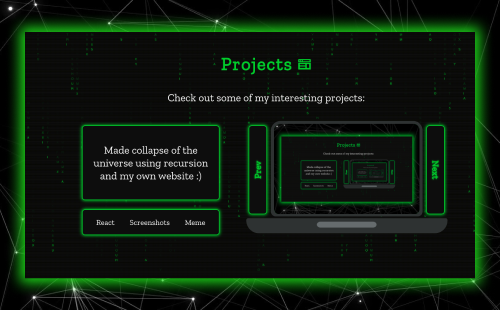
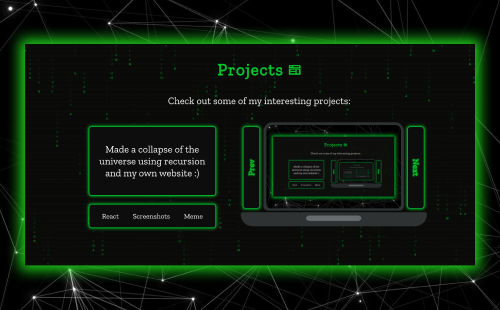
fix navigation, add border to modal links

diff --git a/src/components/projectSlide/ProjectSlide.js b/src/components/projectSlide/ProjectSlide.js
@@ -41,7 +41,7 @@ const ProjectSlide = () => {
             id: 4,
             link: 'https://github.com/JUL1VER/PortfolioWebsite.React',
             imgprop: project4,
-            description: 'Made collapse of the universe using recursion and my own website :)',
+            description: 'Made a collapse of the universe using recursion and my own website :)',
             techno: ['React', 'Screenshots', 'Meme']
         }
     ];
@@ -56,6 +56,8 @@ const ProjectSlide = () => {
                     <Swiper
                         modules={[EffectFlip]}
                         effect='flip'
+                        noSwiping={true}
+                        noSwipingClass='ProjectsBlock_content_textInside'
                         loop={true}
                         onBeforeInit={(swiper) => {
                             swiper.params.navigation.prevEl = navigationPrevRef.current;
@@ -77,6 +79,8 @@ const ProjectSlide = () => {
                     <Swiper
                         modules={[EffectFlip]}
                         effect='flip'
+                        noSwiping={true}
+                        noSwipingClass='ProjectsBlock_contect_tecnhoList'
                         loop={true}
                         onBeforeInit={(swiper) => {
                             swiper.params.navigation.prevEl = navigationPrevRef.current;
@@ -108,6 +112,8 @@ const ProjectSlide = () => {
                     effect='fade'
                     lazy={true}
                     loop={true}
+                    noSwiping={true}
+                    noSwipingClass='ProjectsBlock_conteiner_slidePic'
                     className='ProjectsBlock_Swiper'
                     onBeforeInit={(swiper) => {
                         swiper.params.navigation.prevEl = navigationPrevRef.current;
@@ -120,7 +126,7 @@ const ProjectSlide = () => {
                 >
                     { cards.map(card => (
                         <SwiperSlide key={card.id}>
-                            <a href={card.link} target='_blank' rel="noreferrer">
+                            <a href={card.link} target='_blank' rel="noreferrer" className='ProjectsBlock_conteiner_slidePic'>
                                 <div className='ProjectsBlock_hover'/>
                                 <img src={card.imgprop} alt="Project" className="ProjectsBlock_conteiner_projectPic"/>
                             </a>

diff --git a/src/components/descriptionBlock/DescriptionBlock.js b/src/components/descriptionBlock/DescriptionBlock.js
@@ -42,7 +42,7 @@ const DescriptionBlock = () => {
                     </picture>
                 </div>
                 <div className="DescriptionBlock_contentPart">
-                    <p className='DescriptionBlock_text'>Hello, my name is <a href="https://linkedin.com/in/vladJ1" target='_blank' rel='noreferrer' className='DescriptionBlock_link'>Vlad</a> and I like to create cool things! Interesting fact about me: just like I'm obsessed with programming, I love to wrire <a href="https://stihi.ru/avtor/jul1ver" target='_blank' rel='noreferrer' className='DescriptionBlock_link'>poems</a>, that's why I can say programming is a poetry too.</p>
+                    <p className='DescriptionBlock_text'>Hello, my name is <a href="https://linkedin.com/in/vladJ1" target='_blank' rel='noreferrer' className='DescriptionBlock_link'>Vlad</a> and I like to create cool things! Interesting fact about me: just like I'm obsessed with programming, I love to wrire <a href="https://stihi.ru/avtor/jul1ver" target='_blank' rel='noreferrer' className='DescriptionBlock_link'>poems</a>. That's why I can say programming is a poetry too!</p>
                     <p className='DescriptionBlock_text'>Currently I'm developing well desingned impressive apps in <a href="https://mish.design/" target='_blank' rel='noreferrer' className='DescriptionBlock_link'>Mish.design</a>. Mostly I work using React and TypeScript, but I also like native JavaScript. The power and possibilities of CSS never stop to amaze me!</p>
                     <p className='DescriptionBlock_text'>I am interested in many things including science, poetry, music, history, phylosophy and travelling. But programming is one of my favourites! And I also like to talk with people, so feel free to <a href="mailto:jul1v3r@gmail.com" target='_blank' rel='noreferrer' className='DescriptionBlock_link'>say</a> me something :)</p>
                     <button className='DescriptionBlock_helloButton' 

diff --git a/src/components/modal/modal.css b/src/components/modal/modal.css
@@ -65,6 +65,7 @@
   font-weight: 600;
   border-radius: 10px;
   color: #fff;
+  border: 1px solid #1cd119;
   background-color: #0a0a0a;
   box-shadow: 0 0 5px 2px #1cd119;
   text-shadow: 0 0 5px #1cd119;
@@ -81,6 +82,7 @@
 .modal_link_right:hover,
 .modal_link_rigth:active {
   color: #fff;
+  border: 1px solid #fff;
   box-shadow: 0 0 5px 2px #fff;
   text-shadow: none;
   background-color: #e84949;
@@ -89,6 +91,7 @@
 .modal_link_left:hover,
 .modal_link_left:active {
   color: #fff;
+  border: 1px solid #fff;
   box-shadow: 0 0 5px 2px #fff;
   text-shadow: none;
   background-color: #2a7ede;
@@ -115,6 +118,7 @@
     border-radius: 10px;
     font-size: 18px;
     font-weight: 600;
+    border: 1px solid #1cd119;
   }
 
   .modal_linkImg {
@@ -144,6 +148,7 @@
     border-radius: 10px;
     font-size: 20px;
     font-weight: 600;
+    border: 1px solid #1cd119;
   }
 
   .modal_linkImg {
